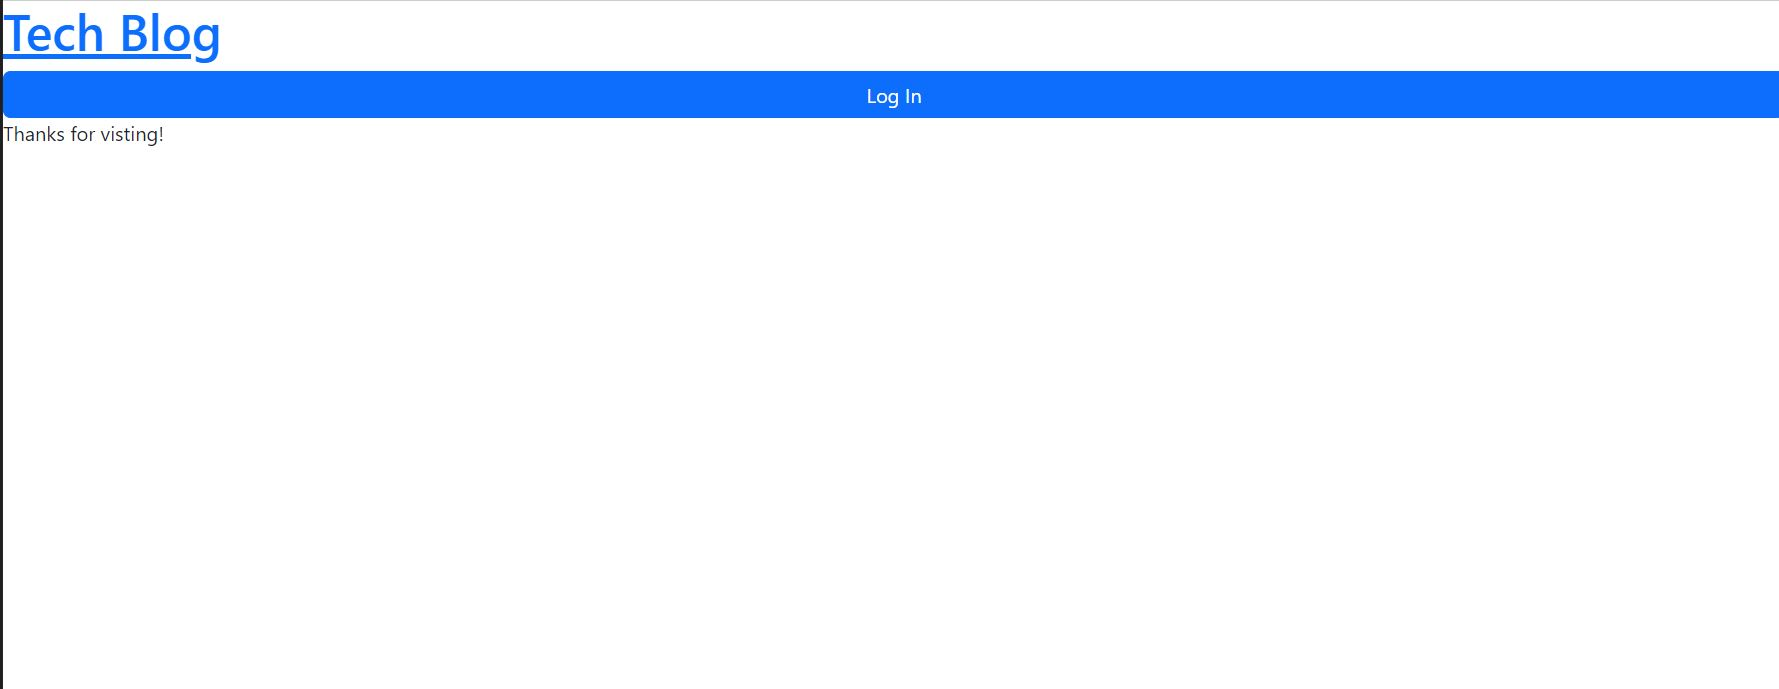
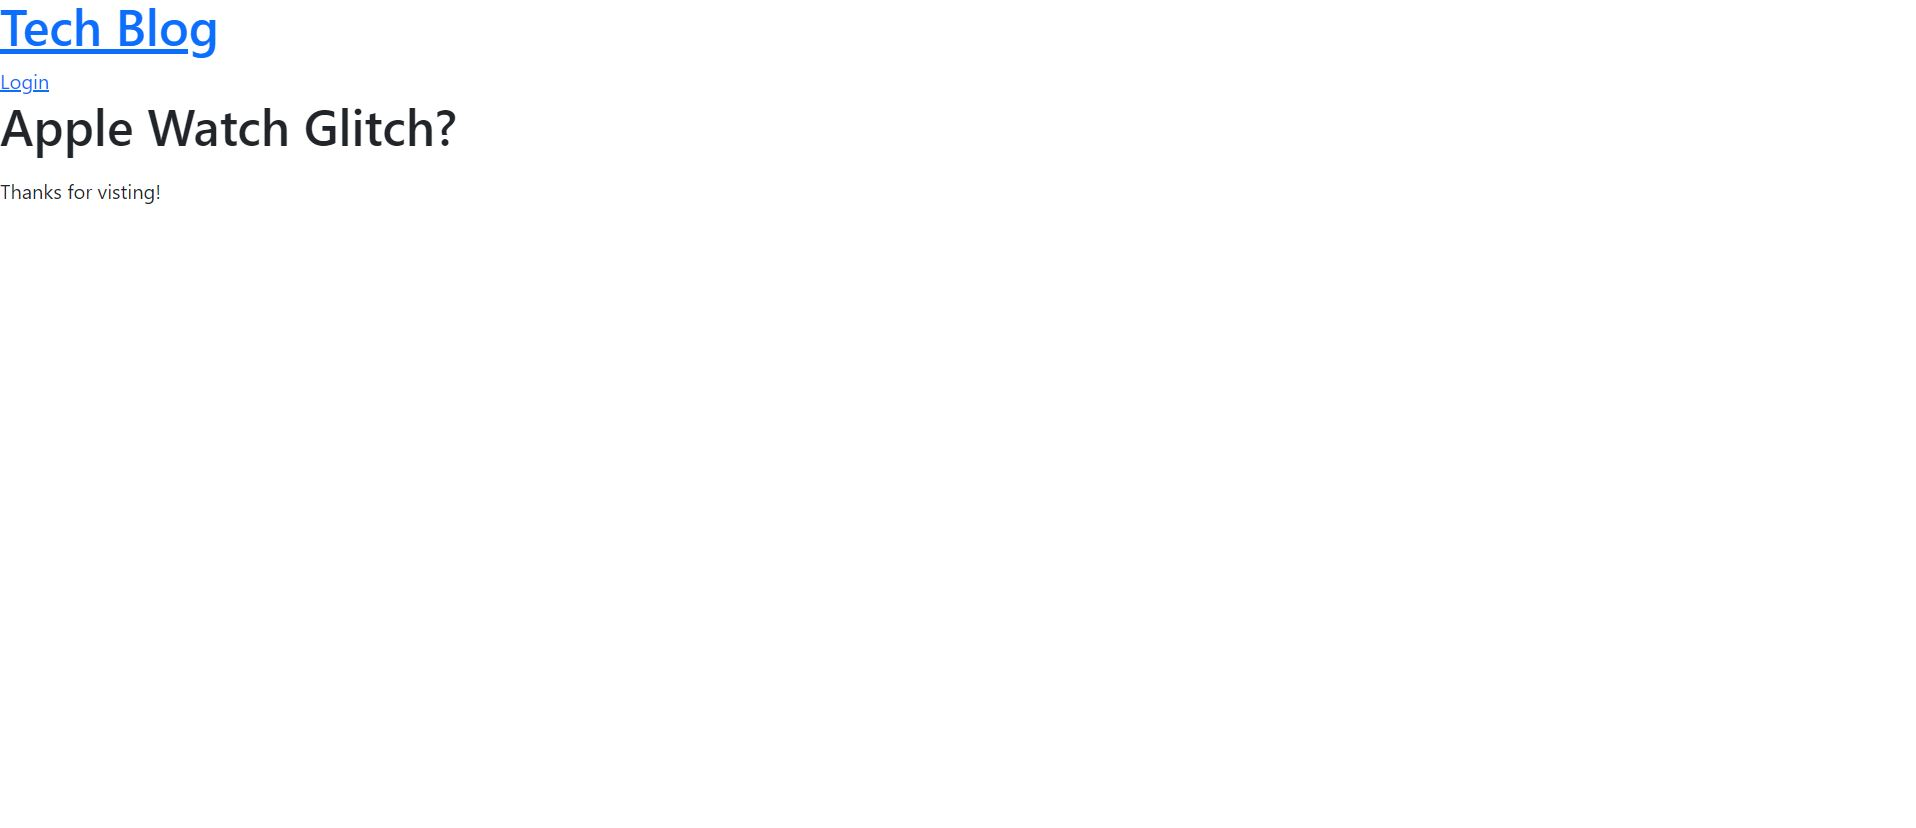
adding screenshots

Changed region(s): [[0.0, 0.0, 1.0, 0.2438]]

diff --git a/controllers/homePage.js b/controllers/homePage.js
@@ -26,31 +26,31 @@ router.get("/", async (req, res) => {
 
 
 
-// router.get("/profile", withAuth, async (req, res) => {
-//   try {
-//     const userData = await User.findByPk(req.session.user_id, {
-//       attributes: { exclude: ["password"] },
-//       include: [{ model: Blog }],
-//     });
+router.get("/profile", withAuth, async (req, res) => {
+  try {
+    const userData = await User.findByPk(req.session.user_id, {
+      attributes: { exclude: ["password"] },
+      include: [{ model: Blog }],
+    });
 
-//     const user = userData.get({ plain: true });
+    const user = userData.get({ plain: true });
 
-//     res.render("profile", {
-//       ...user,
-//       logged_in: true,
-//     });
-//   } catch (err) {
-//     res.status(500).json(err);
-//   }
-// });
+    res.render("profile", {
+      ...user,
+      logged_in: true,
+    });
+  } catch (err) {
+    res.status(500).json(err);
+  }
+});
 
-// router.get("/login", (req, res) => {
-//   if (req.session.logged_in) {
-//     res.redirect("/profile");
-//     return;
-//   }
+router.get("/login", (req, res) => {
+  if (req.session.logged_in) {
+    res.redirect("/profile");
+    return;
+  }
 
-//   res.render("login");
-// });
+  res.render("login");
+});
 
 module.exports = router;

diff --git a/README.md b/README.md
@@ -17,6 +17,8 @@
 
 For this assignment I was tasked with creating a tech blog that a user can interact with. The user will be able to make a username and post about tech. The user will also be able to search for what other users have posted about in their blogs. The user will have their own password that will allow them to view and post blogs. When the user is inactive for a period of time then the site will log them out. Once the user has posted their blog post then it will show up on the blog page allowing other users to read it.
 
+Unfortunately I was unable to get the application to work and will need to come back to it later due to time constraints.
+
 ## Usage
 
 This application will allow a user to create a log in name with their email and a password. Once they have created a login the user will be able to view and post blogs about tech. The user will be able to see other posts made by different users. The users login information will be saved to the page so if they close the page they will still be logged in once they return.
@@ -97,9 +99,4 @@ GIVEN a CMS-style blog site
 
 ![Home Page Image](./images/homepage.JPG)
 
-<!-- 
-// use npm seed before running
-// add seed data and users prior to running seeds
-// create login page afterwards 
- having log in go to login page
- blog page  -->
+![Login/Signup image](./images/login-signup.JPG)
